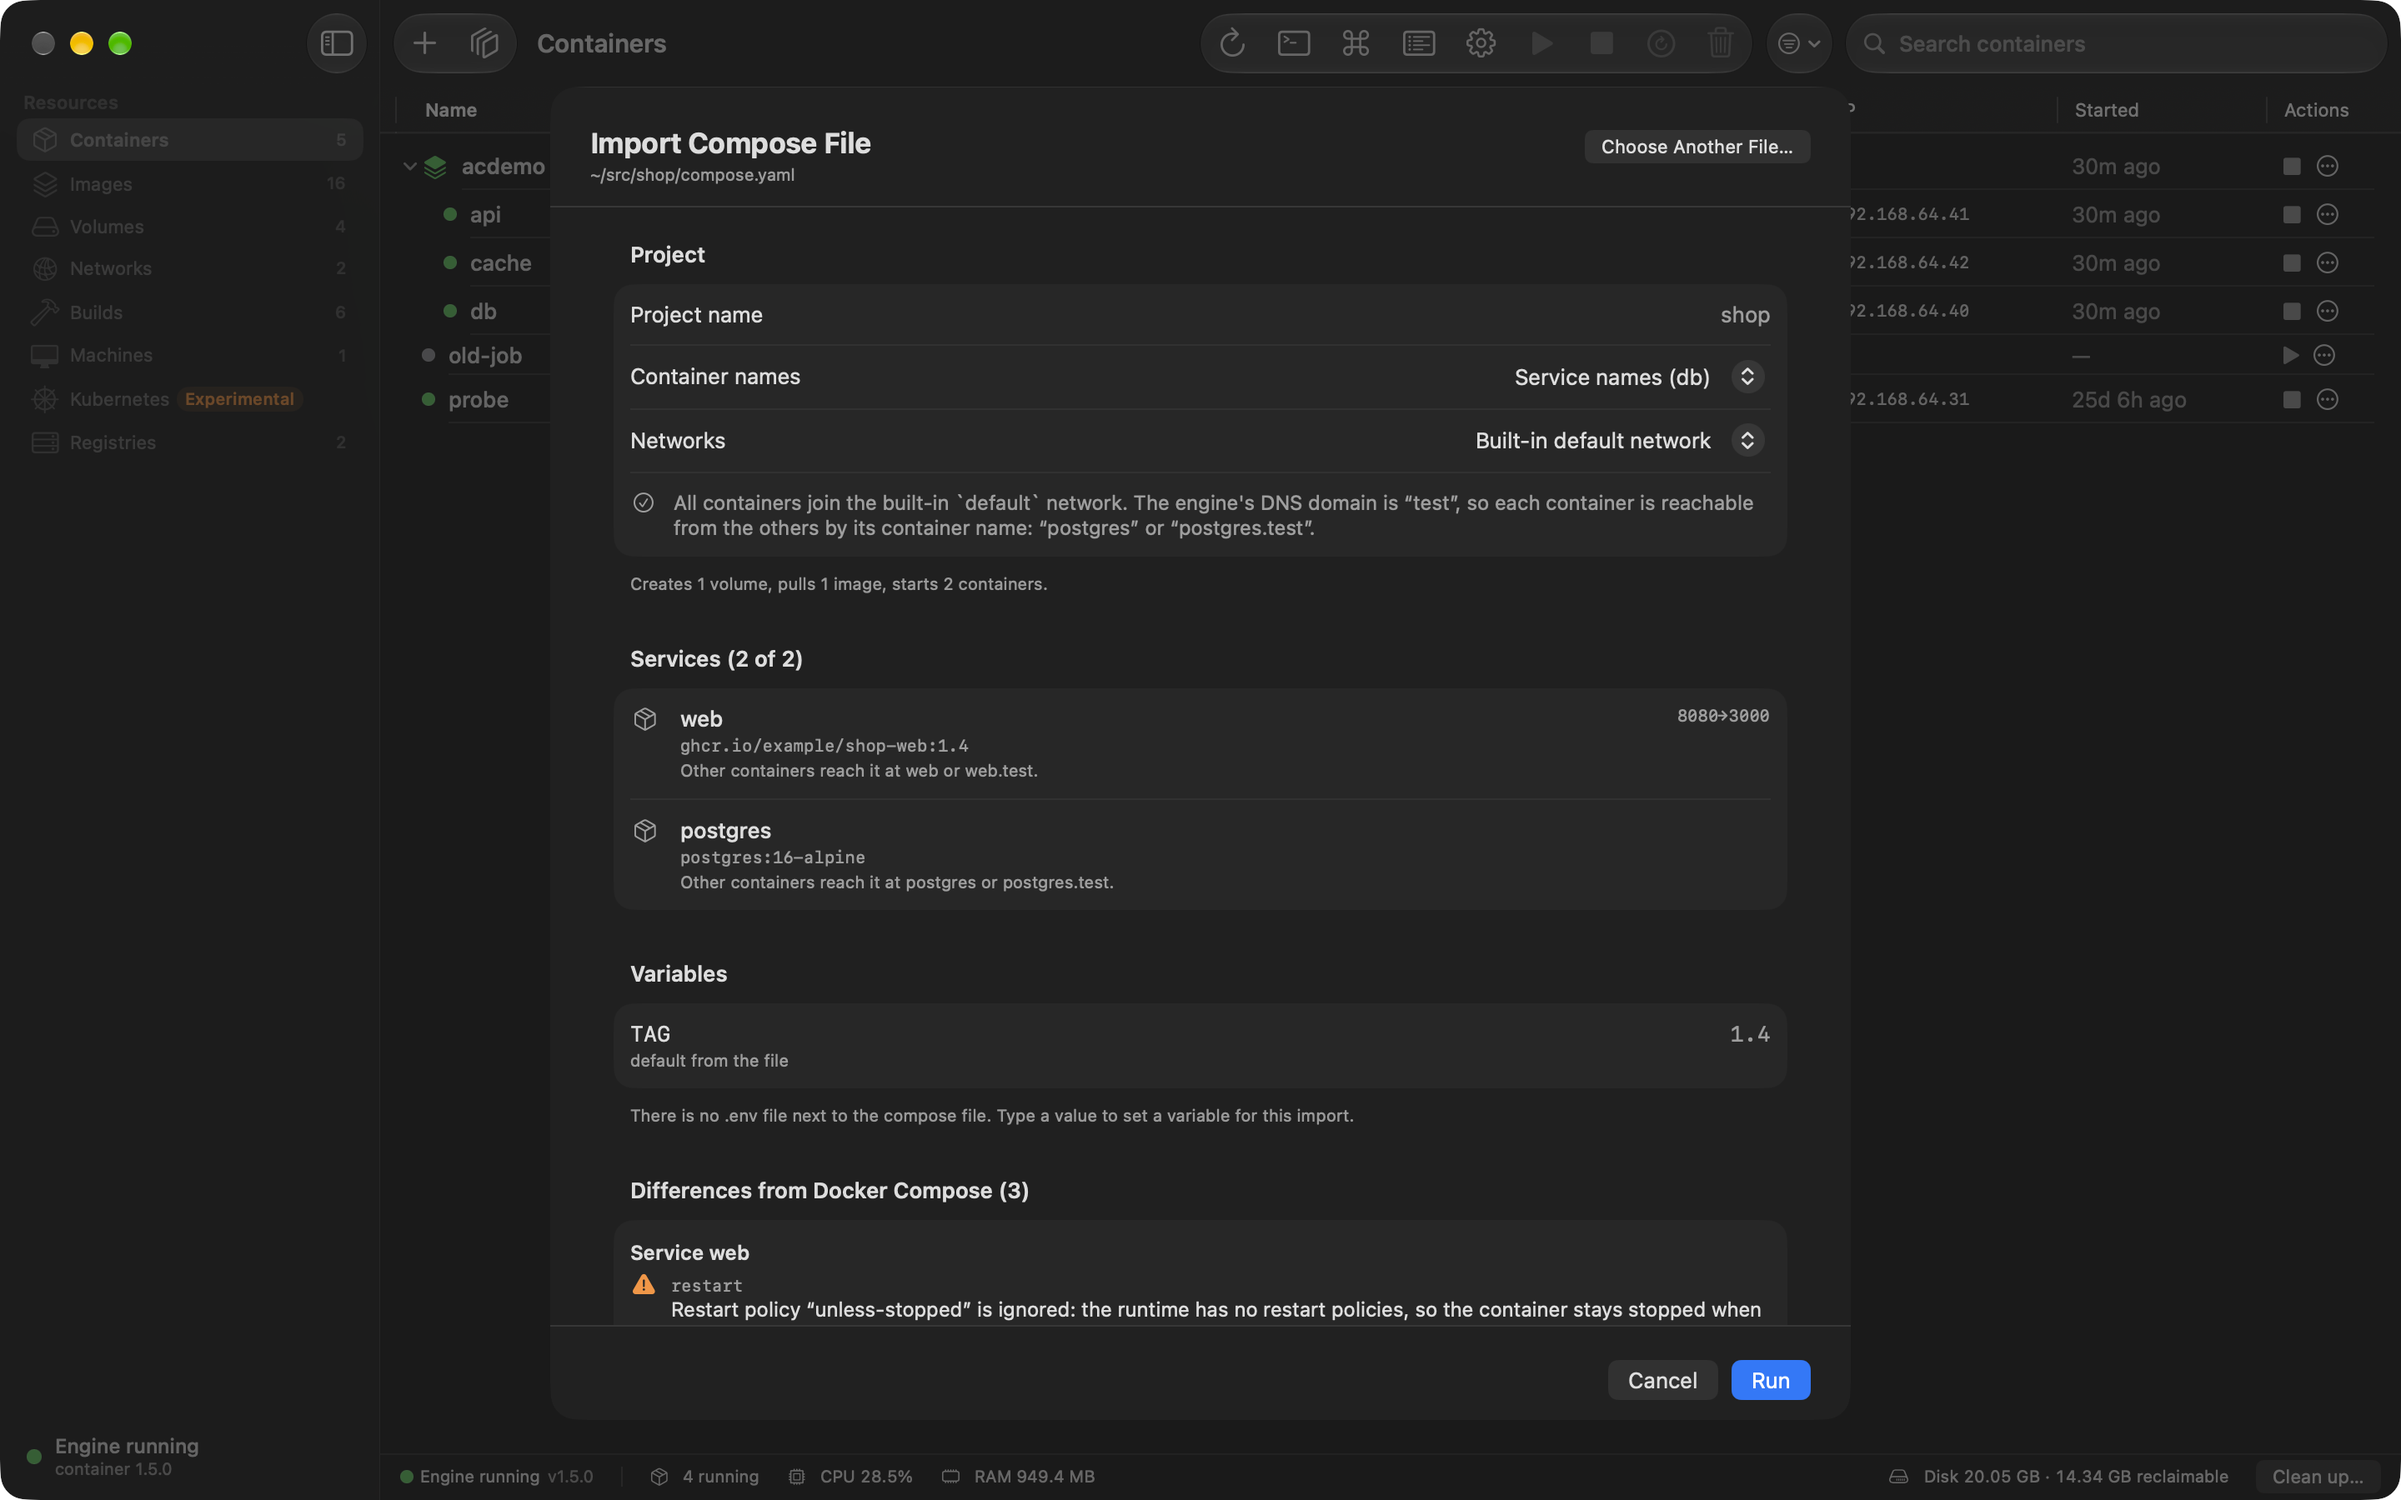
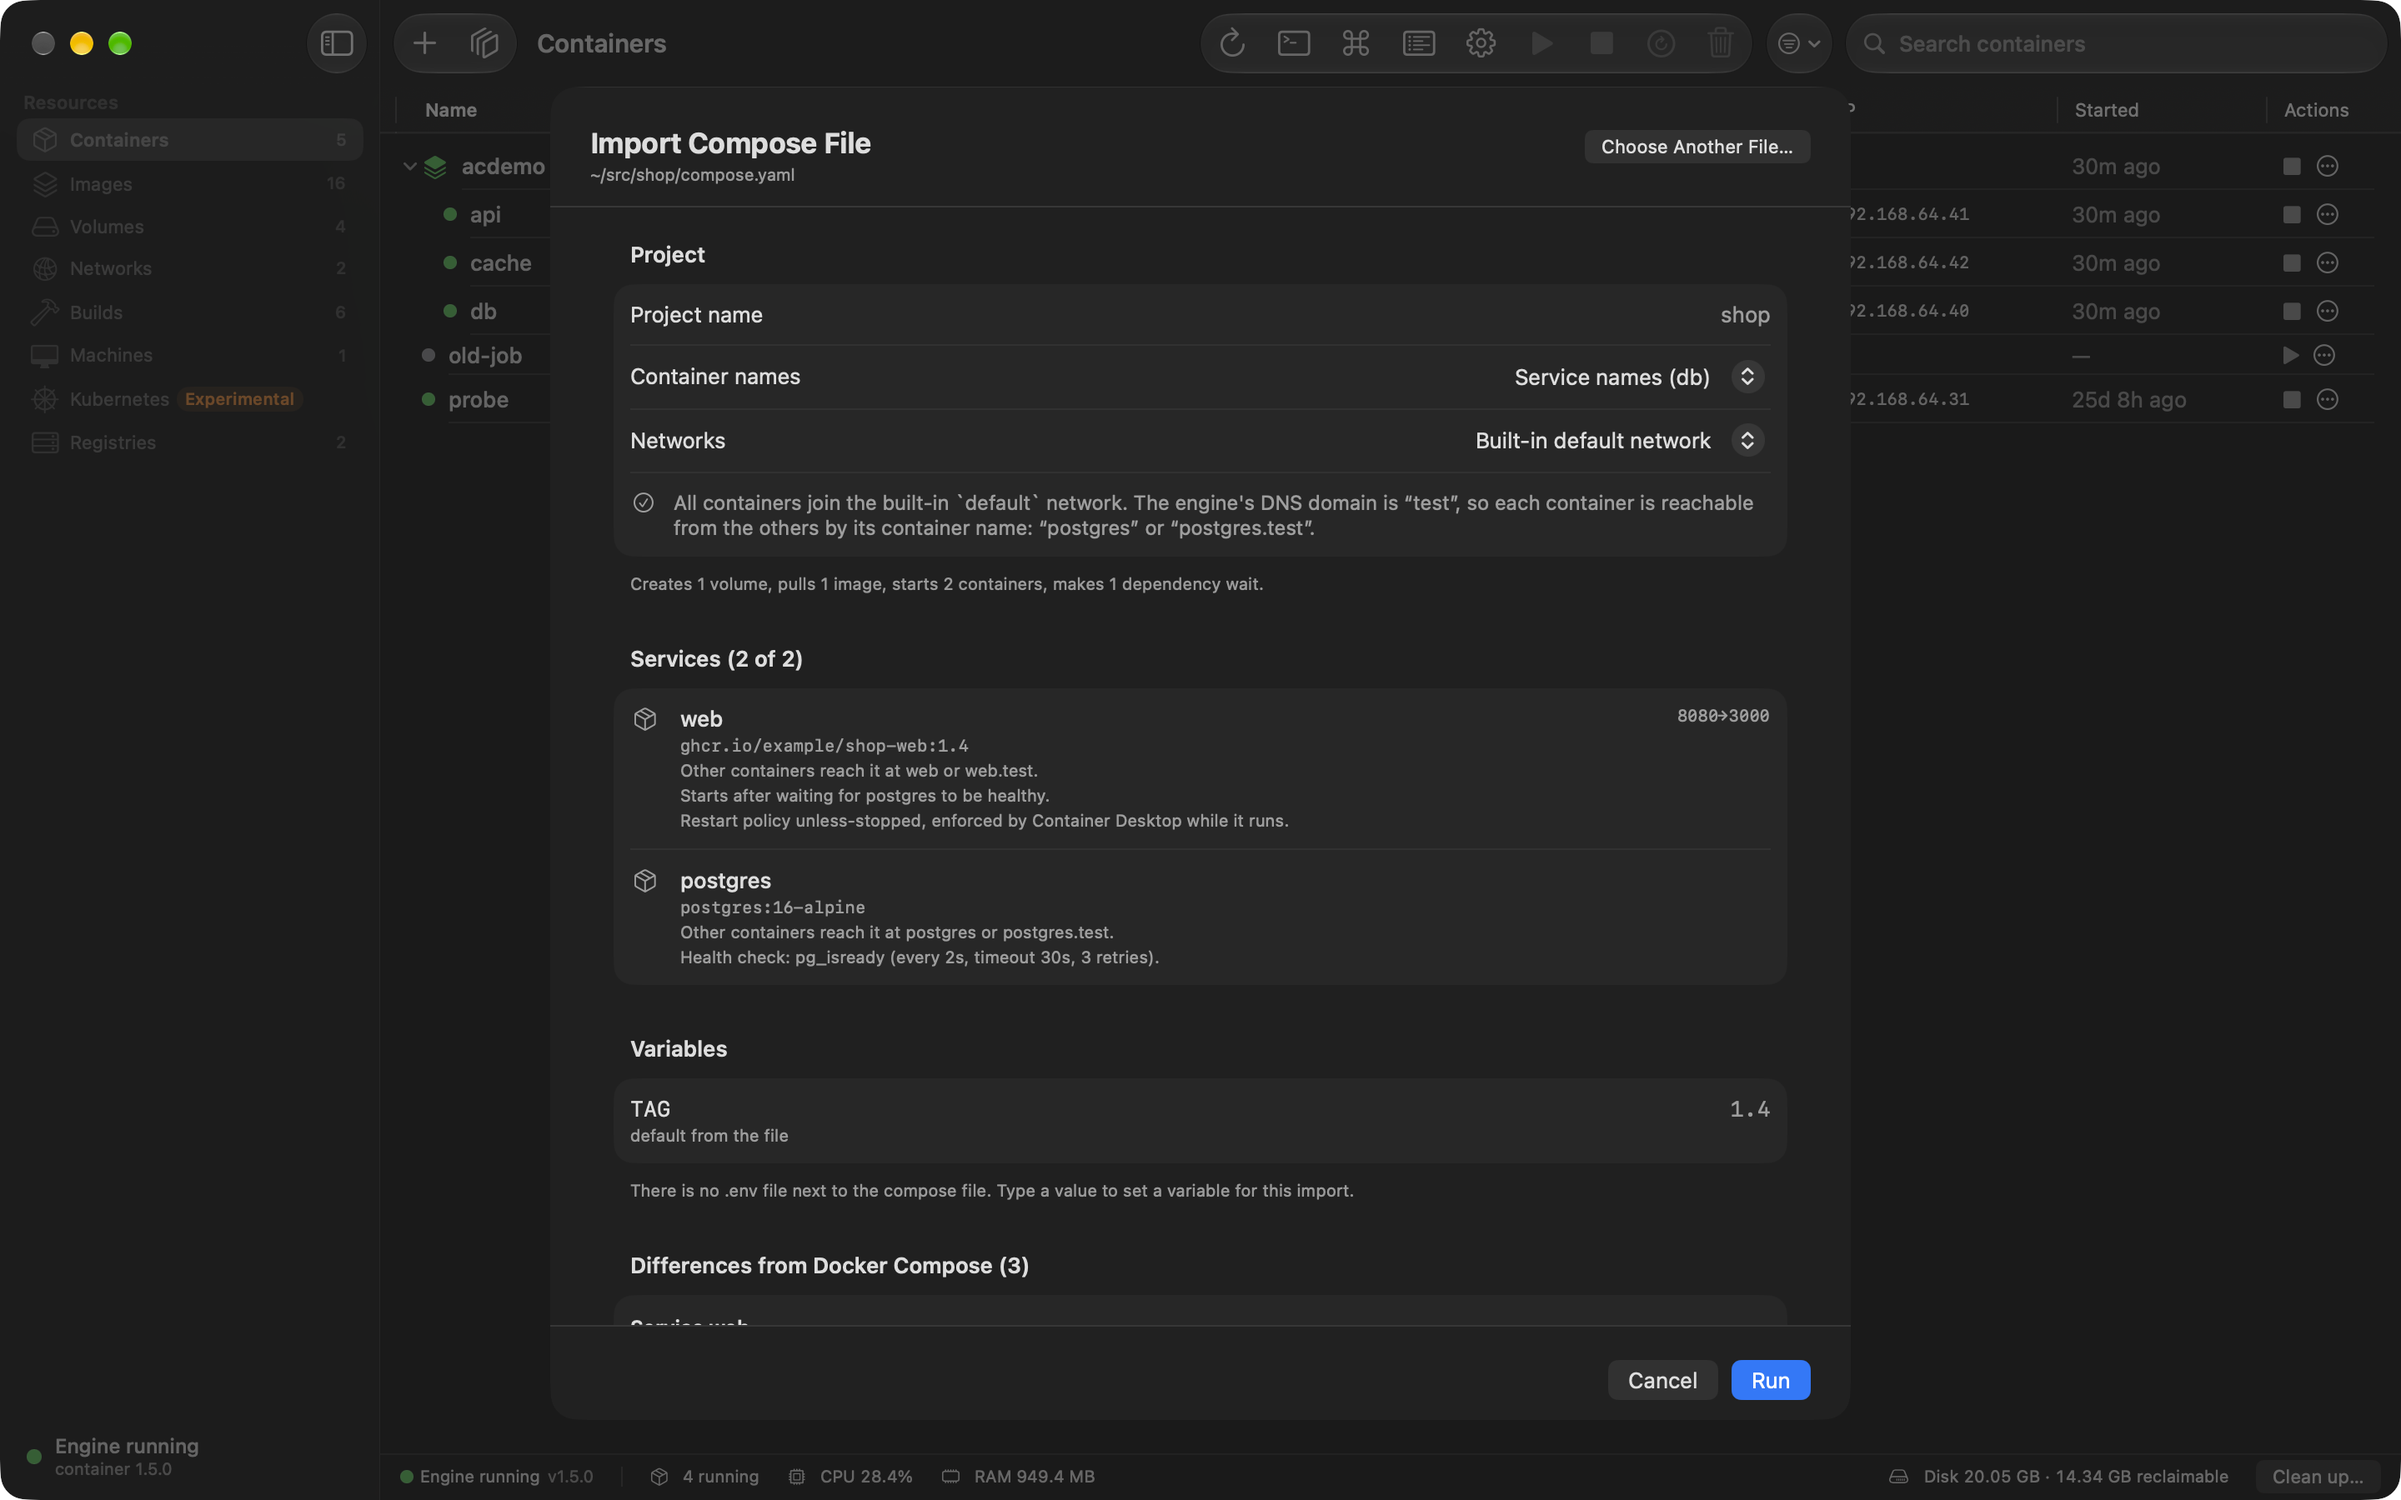
docs: README and changelog for restart policies and health-check waits; refreshed compose screenshot

diff --git a/CHANGELOG.md b/CHANGELOG.md
@@ -13,13 +13,26 @@ The format follows [Keep a Changelog](https://keepachangelog.com/en/1.1.0/), and
   - Supports the common Compose keys: images and builds, ports, volumes and bind mounts, environment and env files,
     `depends_on` start order, resource limits, profiles, and `${VARIABLE}` values from the `.env` file next to the
     compose file (each can be overridden in the preview).
-  - Everything Apple's runtime cannot do (restart policies, health checks, secrets, host networking, …) is listed
+  - Everything Apple's runtime cannot do (secrets, host networking, override files, …) is listed
     per service in the preview instead of being silently dropped. See `docs/COMPOSE.md`.
   - The preview says which hostname services can use to reach each other on your setup, and warns when no DNS
     domain is configured.
   - Running a project shows progress per step. If a step fails, the run stops, says what was already created, and
     offers to remove it. Existing containers with the same name are never replaced without asking; existing
     volumes and networks are reused.
+- **Restart policies.** Choose No, Always, Unless stopped or On failure (with an optional limit) when you run a
+  container, or use `restart:` in a compose file. Container Desktop starts the container again when it stops
+  (after 1 s, then 2 s, 4 s … up to a minute), and starts `always` / `unless-stopped` containers when the app
+  launches or the container system comes up, so stacks return after a reboot. Containers you stop in the app stay
+  stopped. Each restart appears in Activity; the Inspect tab shows the policy and the restart count.
+  Apple's runtime has no restart policies, so this works only while Container Desktop is running (the window can
+  be closed), a `container stop` typed in a terminal is treated as a crash, and "On failure" reacts to any
+  unexpected stop because the runtime reports no exit codes. Switch it off under Settings › General.
+- **Compose: wait for healthy dependencies.** `depends_on` with `condition: service_healthy` runs the dependency's
+  `healthcheck` inside its container and starts the dependent service only once it passes, with a live "Waiting
+  for db to be healthy (attempt 3)" step. `service_completed_successfully` waits for the dependency to finish. A
+  dependency that never becomes healthy stops the run with the check's last output. Health is checked during the
+  import, not afterwards.
 - **Files tab** on every container: browse the filesystem of a running container with a path bar, back/up, inline
   expandable folders, a hidden-files toggle, and mounted volumes marked. Works with GNU, BusyBox and other minimal
   images; images without a shell show an explanation instead of an error. (#7)

diff --git a/README.md b/README.md
@@ -185,6 +185,9 @@ Rosetta next to native `arm64`. More screens: [`docs/screenshots/`](docs/screens
   `container` commands it will run, and names everything Apple's runtime cannot do instead of dropping it
   silently. The stack then appears as a project group with Start All, Stop All and Delete All.
   Supported keys and limits: [docs/COMPOSE.md](docs/COMPOSE.md).
+- **Restart policies and health checks.** Always, Unless stopped and On failure for any container, and compose
+  services that wait for a healthy dependency. Apple's runtime has neither, so Container Desktop enforces them
+  while it is running (the window can be closed).
 - **Files tab** on every container: browse a running container's filesystem, save files and folders to your Mac,
   upload by file picker or drag from Finder, preview text, Quick Look the rest, rename, delete (with confirmation)
   and export the whole filesystem as a tar.
@@ -332,8 +335,7 @@ Details in [`docs/ARCHITECTURE.md`](docs/ARCHITECTURE.md); scope in [`docs/PRD.m
   engine control, settings, menu bar extra; ad-hoc signed DMG.
 - **v0.2 (this release):** compose-file import, a file browser inside containers, Save as Image, update checks,
   Homebrew cask and one-line installer, support for `container` 1.6 and 1.7.
-- **Next:** a signed and notarized DMG, compose health checks and restart policies where the runtime allows,
-  XPC backend (no CLI round-trips), menu-bar-only mode.
+- **Next:** a signed and notarized DMG, XPC backend (no CLI round-trips), menu-bar-only mode.
 - **Later:** remote hosts.
 
 How this compares with Docker Desktop today, including what is still missing: [docs/COMPARISON.md](docs/COMPARISON.md).
